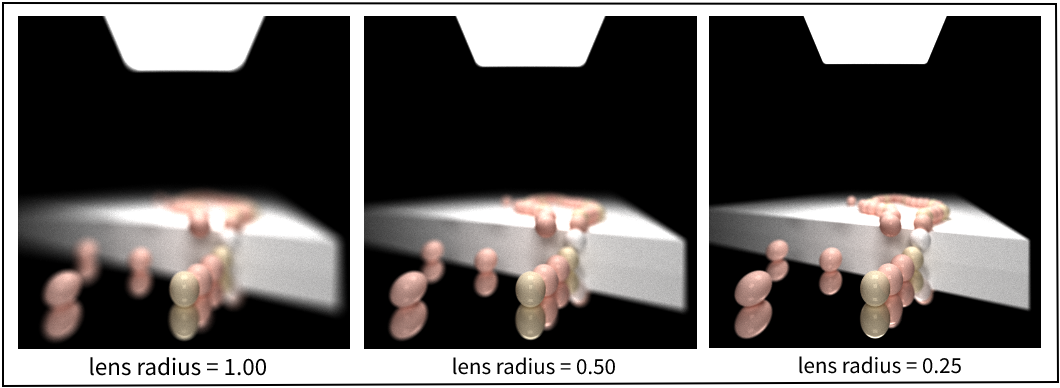
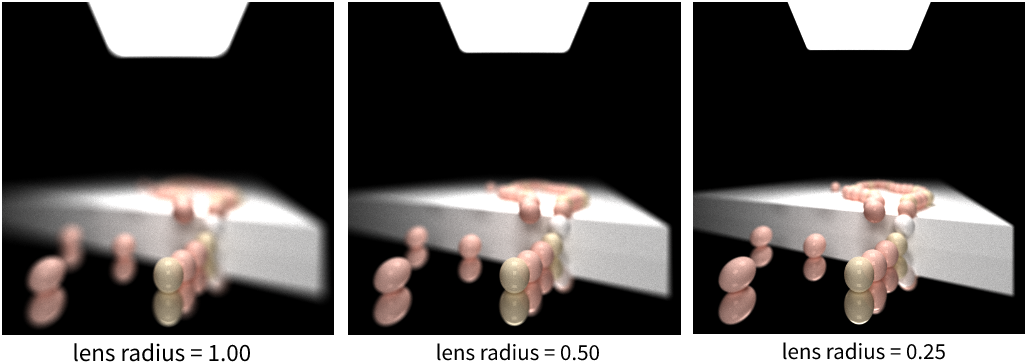
dof readme update

diff --git a/README.md b/README.md
@@ -43,6 +43,8 @@ Implemented diffused, specular reflective, specular refractive, glass
 
 ## Physically based depth of field
 
+![](img/dof_F6_R1.png)
+
 The following renders of a string of pearls show depth of field as cameras with different lens radius generate varying depth of field effect.
 
 ![](img/dof_lensRadius.png)
